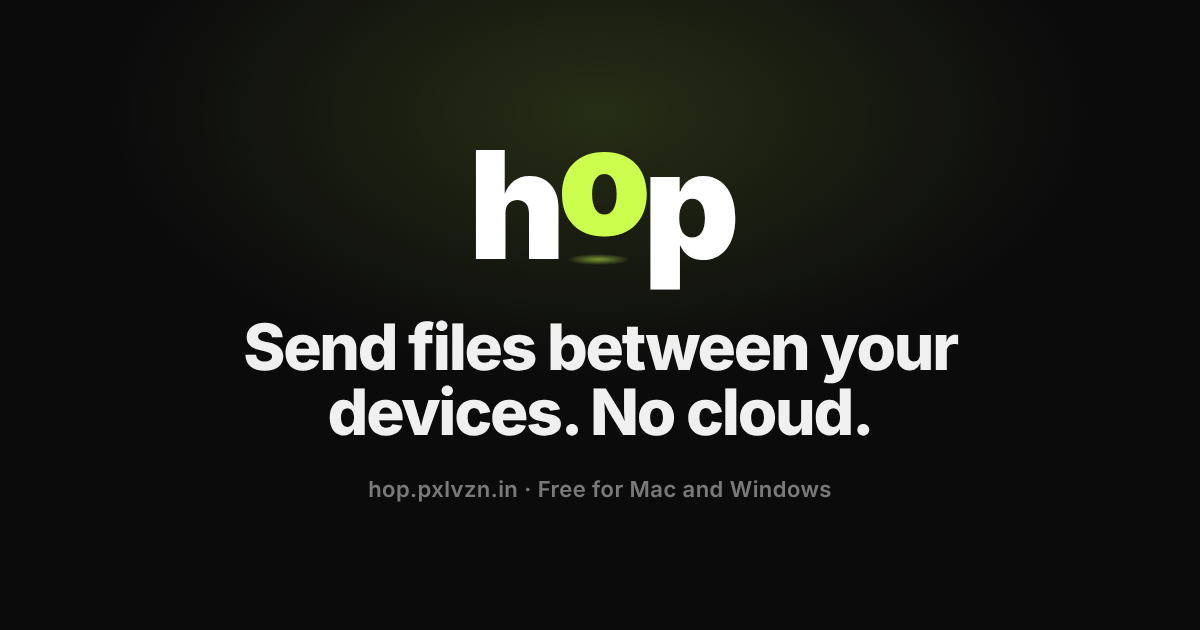
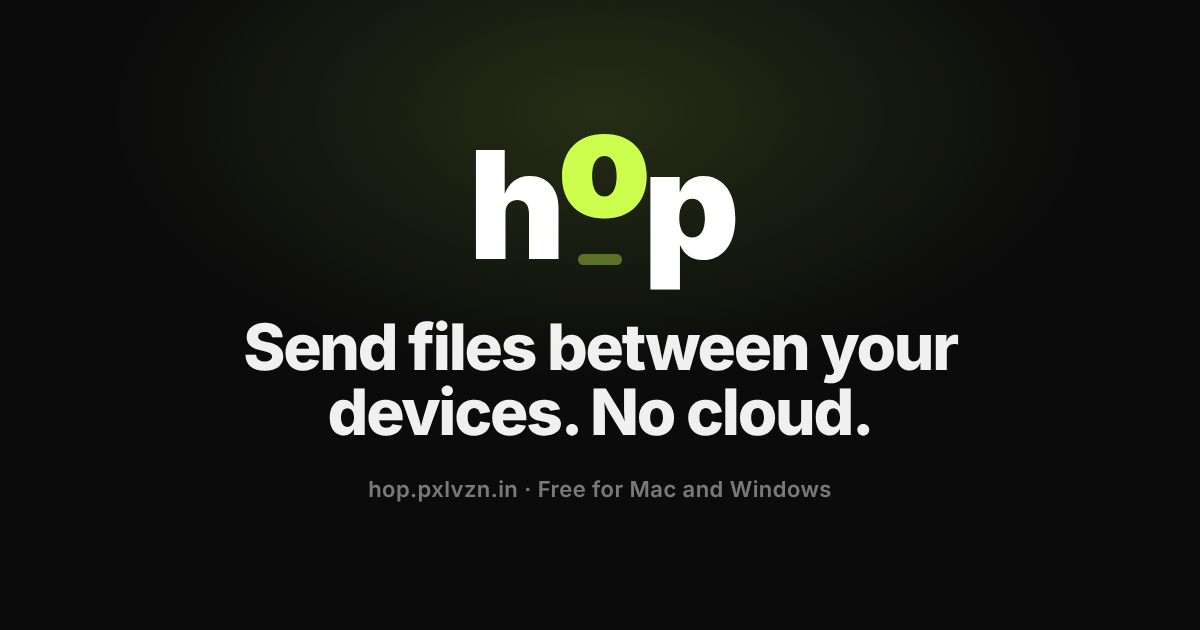
Hop site: raise the o 0.28em with a shadow dash, matching the app
Claude-Session: https://claude.ai/code/session_0153qDJZLn1x3vLwES6bXL5A

Changed region(s): [[0.4625, 0.2111, 0.555, 0.4222]]

diff --git a/apps/_shared/style.css b/apps/_shared/style.css
@@ -426,11 +426,10 @@ footer .fine a { border-bottom: 1px solid var(--stroke-strong); }
 .no-js .anim-stm .word { clip-path: none; }
 .no-js .anim-stm .bars b { transform: none; }
 
-/* Hop: "hop" with a lime "o" caught mid-hop, floating above the baseline over its own shadow. */
+/* Hop: "hop" with a lime "o" caught mid-hop, 0.28em above the baseline, over a short shadow dash (as in the app). */
 .hopw { position: relative; display: inline-block; }
-.hopw .o { display: inline-block; color: var(--accent); transform: translateY(-0.16em); transform-origin: 50% 100%; }
-.hopw .sh { position: absolute; left: 0.66em; top: 0.83em; width: 0.42em; height: 0.07em; border-radius: 50%;
-  background: radial-gradient(closest-side, rgba(204, 255, 77, 0.55), rgba(204, 255, 77, 0)); }
+.hopw .o { display: inline-block; color: var(--accent); transform: translateY(-0.28em); transform-origin: 50% 100%; }
+.hopw .sh { position: absolute; left: 0.734em; top: 0.83em; width: 0.29em; height: 0.07em; border-radius: 0.035em; background: rgba(204, 255, 77, 0.38); }
 
 /* Hop intro: the h and p spring up from the baseline (as in the app). Then the lime o bounds in from
    the left, hops onto the top of the h, squashes, hops down into its gap (the p flinches), squashes
@@ -455,9 +454,9 @@ footer .fine a { border-bottom: 1px solid var(--stroke-strong); }
   68% { transform: translate(0, 0); animation-timing-function: ease-out; }
   73.6% { transform: translate(0, 0) scale(1.38, 0.62); animation-timing-function: ease-in-out; }
   80% { transform: translate(0, -0.02em) scale(0.9, 1.12); animation-timing-function: cubic-bezier(.2, .8, .3, 1); }
-  100% { opacity: 1; transform: translate(0, -0.16em); }
+  100% { opacity: 1; transform: translate(0, -0.28em); }
 }
-@keyframes hop-bob { from { transform: translateY(-0.16em); } to { transform: translateY(-0.25em); } }
+@keyframes hop-bob { from { transform: translateY(-0.28em); } to { transform: translateY(-0.36em); } }
 @keyframes hop-flinch { 0%, 100% { transform: none; } 30% { transform: translateY(0.05em) scale(1.03, 0.95); } }
 @keyframes hop-sh-in { to { opacity: 1; } }
 @keyframes hop-sh-bob { from { transform: scaleX(1); opacity: 1; } to { transform: scaleX(0.75); opacity: 0.6; } }

diff --git a/apps/hop/assets/style.css b/apps/hop/assets/style.css
@@ -426,11 +426,10 @@ footer .fine a { border-bottom: 1px solid var(--stroke-strong); }
 .no-js .anim-stm .word { clip-path: none; }
 .no-js .anim-stm .bars b { transform: none; }
 
-/* Hop: "hop" with a lime "o" caught mid-hop, floating above the baseline over its own shadow. */
+/* Hop: "hop" with a lime "o" caught mid-hop, 0.28em above the baseline, over a short shadow dash (as in the app). */
 .hopw { position: relative; display: inline-block; }
-.hopw .o { display: inline-block; color: var(--accent); transform: translateY(-0.16em); transform-origin: 50% 100%; }
-.hopw .sh { position: absolute; left: 0.66em; top: 0.83em; width: 0.42em; height: 0.07em; border-radius: 50%;
-  background: radial-gradient(closest-side, rgba(204, 255, 77, 0.55), rgba(204, 255, 77, 0)); }
+.hopw .o { display: inline-block; color: var(--accent); transform: translateY(-0.28em); transform-origin: 50% 100%; }
+.hopw .sh { position: absolute; left: 0.734em; top: 0.83em; width: 0.29em; height: 0.07em; border-radius: 0.035em; background: rgba(204, 255, 77, 0.38); }
 
 /* Hop intro: the h and p spring up from the baseline (as in the app). Then the lime o bounds in from
    the left, hops onto the top of the h, squashes, hops down into its gap (the p flinches), squashes
@@ -455,9 +454,9 @@ footer .fine a { border-bottom: 1px solid var(--stroke-strong); }
   68% { transform: translate(0, 0); animation-timing-function: ease-out; }
   73.6% { transform: translate(0, 0) scale(1.38, 0.62); animation-timing-function: ease-in-out; }
   80% { transform: translate(0, -0.02em) scale(0.9, 1.12); animation-timing-function: cubic-bezier(.2, .8, .3, 1); }
-  100% { opacity: 1; transform: translate(0, -0.16em); }
+  100% { opacity: 1; transform: translate(0, -0.28em); }
 }
-@keyframes hop-bob { from { transform: translateY(-0.16em); } to { transform: translateY(-0.25em); } }
+@keyframes hop-bob { from { transform: translateY(-0.28em); } to { transform: translateY(-0.36em); } }
 @keyframes hop-flinch { 0%, 100% { transform: none; } 30% { transform: translateY(0.05em) scale(1.03, 0.95); } }
 @keyframes hop-sh-in { to { opacity: 1; } }
 @keyframes hop-sh-bob { from { transform: scaleX(1); opacity: 1; } to { transform: scaleX(0.75); opacity: 0.6; } }

diff --git a/apps/lut/assets/style.css b/apps/lut/assets/style.css
@@ -426,11 +426,10 @@ footer .fine a { border-bottom: 1px solid var(--stroke-strong); }
 .no-js .anim-stm .word { clip-path: none; }
 .no-js .anim-stm .bars b { transform: none; }
 
-/* Hop: "hop" with a lime "o" caught mid-hop, floating above the baseline over its own shadow. */
+/* Hop: "hop" with a lime "o" caught mid-hop, 0.28em above the baseline, over a short shadow dash (as in the app). */
 .hopw { position: relative; display: inline-block; }
-.hopw .o { display: inline-block; color: var(--accent); transform: translateY(-0.16em); transform-origin: 50% 100%; }
-.hopw .sh { position: absolute; left: 0.66em; top: 0.83em; width: 0.42em; height: 0.07em; border-radius: 50%;
-  background: radial-gradient(closest-side, rgba(204, 255, 77, 0.55), rgba(204, 255, 77, 0)); }
+.hopw .o { display: inline-block; color: var(--accent); transform: translateY(-0.28em); transform-origin: 50% 100%; }
+.hopw .sh { position: absolute; left: 0.734em; top: 0.83em; width: 0.29em; height: 0.07em; border-radius: 0.035em; background: rgba(204, 255, 77, 0.38); }
 
 /* Hop intro: the h and p spring up from the baseline (as in the app). Then the lime o bounds in from
    the left, hops onto the top of the h, squashes, hops down into its gap (the p flinches), squashes
@@ -455,9 +454,9 @@ footer .fine a { border-bottom: 1px solid var(--stroke-strong); }
   68% { transform: translate(0, 0); animation-timing-function: ease-out; }
   73.6% { transform: translate(0, 0) scale(1.38, 0.62); animation-timing-function: ease-in-out; }
   80% { transform: translate(0, -0.02em) scale(0.9, 1.12); animation-timing-function: cubic-bezier(.2, .8, .3, 1); }
-  100% { opacity: 1; transform: translate(0, -0.16em); }
+  100% { opacity: 1; transform: translate(0, -0.28em); }
 }
-@keyframes hop-bob { from { transform: translateY(-0.16em); } to { transform: translateY(-0.25em); } }
+@keyframes hop-bob { from { transform: translateY(-0.28em); } to { transform: translateY(-0.36em); } }
 @keyframes hop-flinch { 0%, 100% { transform: none; } 30% { transform: translateY(0.05em) scale(1.03, 0.95); } }
 @keyframes hop-sh-in { to { opacity: 1; } }
 @keyframes hop-sh-bob { from { transform: scaleX(1); opacity: 1; } to { transform: scaleX(0.75); opacity: 0.6; } }

diff --git a/apps/stm/assets/style.css b/apps/stm/assets/style.css
@@ -426,11 +426,10 @@ footer .fine a { border-bottom: 1px solid var(--stroke-strong); }
 .no-js .anim-stm .word { clip-path: none; }
 .no-js .anim-stm .bars b { transform: none; }
 
-/* Hop: "hop" with a lime "o" caught mid-hop, floating above the baseline over its own shadow. */
+/* Hop: "hop" with a lime "o" caught mid-hop, 0.28em above the baseline, over a short shadow dash (as in the app). */
 .hopw { position: relative; display: inline-block; }
-.hopw .o { display: inline-block; color: var(--accent); transform: translateY(-0.16em); transform-origin: 50% 100%; }
-.hopw .sh { position: absolute; left: 0.66em; top: 0.83em; width: 0.42em; height: 0.07em; border-radius: 50%;
-  background: radial-gradient(closest-side, rgba(204, 255, 77, 0.55), rgba(204, 255, 77, 0)); }
+.hopw .o { display: inline-block; color: var(--accent); transform: translateY(-0.28em); transform-origin: 50% 100%; }
+.hopw .sh { position: absolute; left: 0.734em; top: 0.83em; width: 0.29em; height: 0.07em; border-radius: 0.035em; background: rgba(204, 255, 77, 0.38); }
 
 /* Hop intro: the h and p spring up from the baseline (as in the app). Then the lime o bounds in from
    the left, hops onto the top of the h, squashes, hops down into its gap (the p flinches), squashes
@@ -455,9 +454,9 @@ footer .fine a { border-bottom: 1px solid var(--stroke-strong); }
   68% { transform: translate(0, 0); animation-timing-function: ease-out; }
   73.6% { transform: translate(0, 0) scale(1.38, 0.62); animation-timing-function: ease-in-out; }
   80% { transform: translate(0, -0.02em) scale(0.9, 1.12); animation-timing-function: cubic-bezier(.2, .8, .3, 1); }
-  100% { opacity: 1; transform: translate(0, -0.16em); }
+  100% { opacity: 1; transform: translate(0, -0.28em); }
 }
-@keyframes hop-bob { from { transform: translateY(-0.16em); } to { transform: translateY(-0.25em); } }
+@keyframes hop-bob { from { transform: translateY(-0.28em); } to { transform: translateY(-0.36em); } }
 @keyframes hop-flinch { 0%, 100% { transform: none; } 30% { transform: translateY(0.05em) scale(1.03, 0.95); } }
 @keyframes hop-sh-in { to { opacity: 1; } }
 @keyframes hop-sh-bob { from { transform: scaleX(1); opacity: 1; } to { transform: scaleX(0.75); opacity: 0.6; } }
